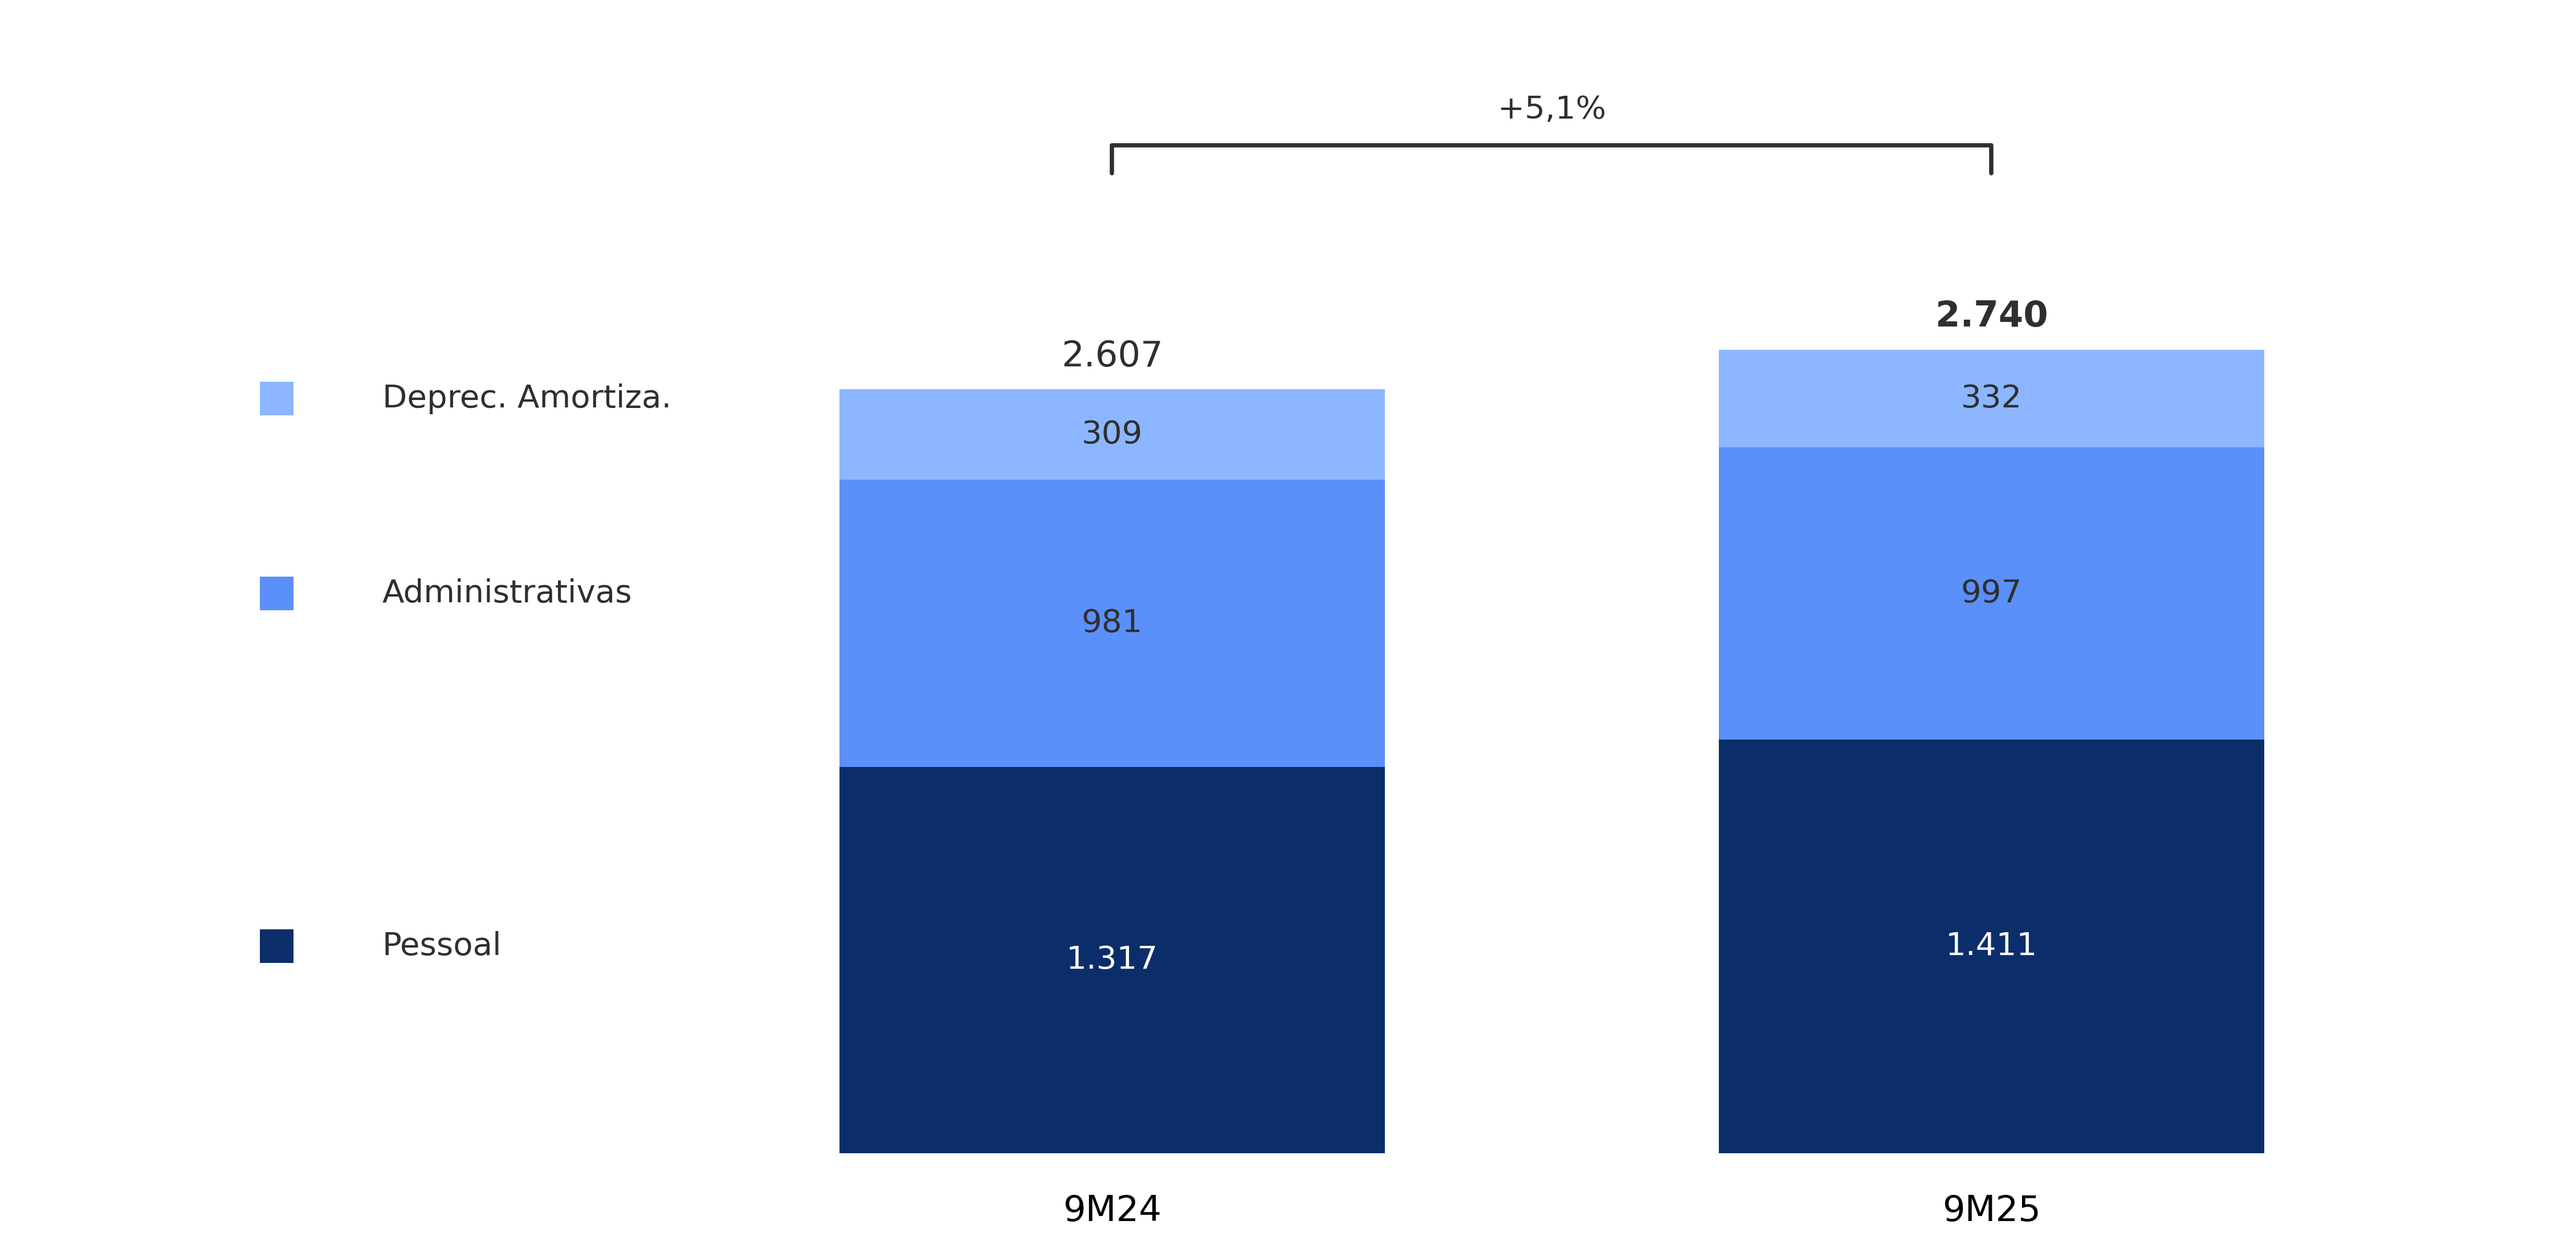
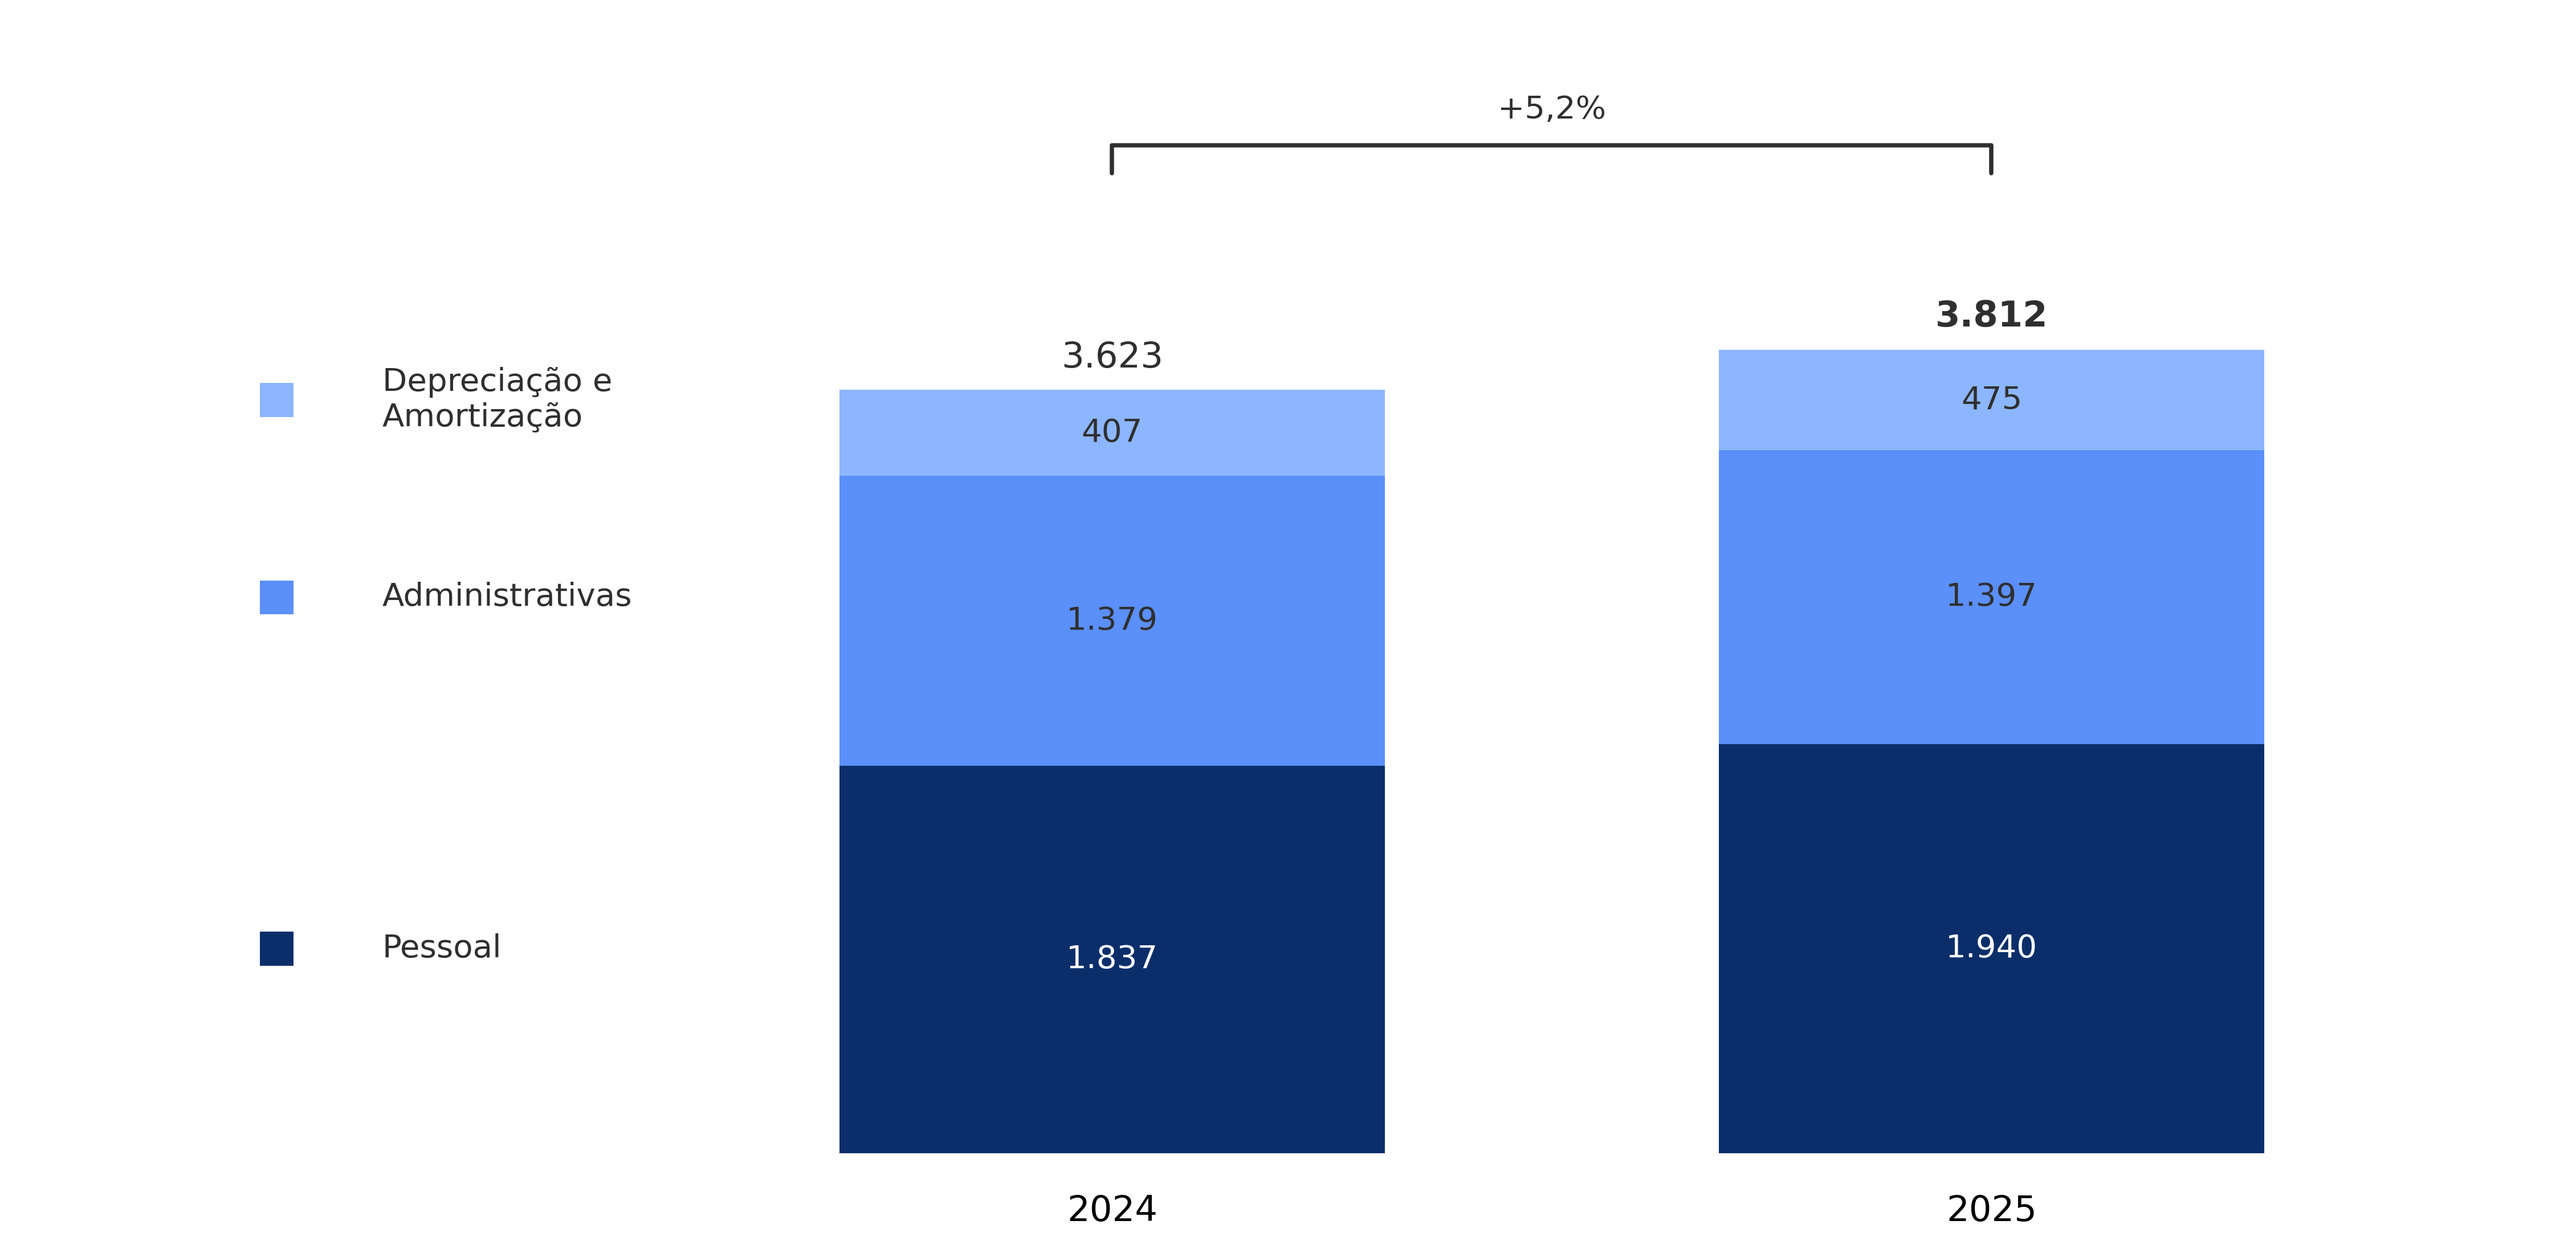
slide 11 adjusted

diff --git a/utils/slide11_charts.py b/utils/slide11_charts.py
@@ -22,6 +22,77 @@ def _fmt_int(v: float) -> str:
     return f"{float(v):,.0f}".replace(",", ".")
 
 
+def _wrap_words(text: str, *, max_line_len: int = 16) -> str:
+    s = (text or "").strip()
+    if not s:
+        return ""
+
+    words = s.split()
+    lines: list[str] = []
+    current: list[str] = []
+    current_len = 0
+
+    for word in words:
+        word_len = len(word)
+        if not current:
+            current = [word]
+            current_len = word_len
+            continue
+
+        if current_len + 1 + word_len <= max_line_len:
+            current.append(word)
+            current_len += 1 + word_len
+            continue
+
+        lines.append(" ".join(current))
+        current = [word]
+        current_len = word_len
+
+    if current:
+        lines.append(" ".join(current))
+
+    return "\n".join(lines)
+
+
+def _is_blank(value: object) -> bool:
+    return value is None or (isinstance(value, str) and value.strip() == "")
+
+
+def _read_named_series_rows(
+    ws,
+    *,
+    xlabels_range: str,
+    series_specs: list[tuple[str, str]],
+) -> tuple[list[str], list[str], np.ndarray]:
+    raw_xlabels = _read_range_row(ws, xlabels_range)
+    if all(_is_blank(value) for value in raw_xlabels):
+        raise ValueError(f"Range sem labels para gráfico em {ws.title}!{xlabels_range}")
+
+    xlabels = [("" if v is None else str(v)).strip() for v in raw_xlabels]
+    point_count = len(xlabels)
+    if point_count == 0:
+        raise ValueError(f"Sem labels para gráfico em {ws.title}!{xlabels_range}")
+
+    series_names: list[str] = []
+    series_columns: list[list[float]] = []
+    for series_name, values_range in series_specs:
+        raw_values = _read_range_row(ws, values_range)
+        if all(_is_blank(value) for value in raw_values):
+            raise ValueError(f"Range sem dados para gráfico em {ws.title}!{values_range}")
+
+        series_values = to_float_list(raw_values)
+        if len(series_values) != point_count:
+            raise ValueError(
+                f"Quantidade de labels em {xlabels_range} difere de {values_range}: "
+                f"{point_count} != {len(series_values)}"
+            )
+        series_names.append(series_name)
+        series_columns.append(series_values)
+
+    values = np.column_stack(series_columns)
+    return xlabels, series_names, values
+
+
 def _plot_stacked_expenses(
     *,
     xlabels: list[str],
@@ -154,7 +225,7 @@ def _plot_stacked_expenses(
         ax.text(
             x_leg + 0.12,
             float(y_ref),
-            str(name),
+            _wrap_words(str(name), max_line_len=16),
             ha="left",
             va="center",
             fontsize=9.0,
@@ -268,41 +339,57 @@ def generate_slide11_charts(*, xlsx_path: Path, output_dir: Path) -> list[Path]:
     output_dir.mkdir(parents=True, exist_ok=True)
 
     wb = load_workbook(filename=xlsx_path, data_only=True)
-    sheet_name = "slide_11"
-    if sheet_name not in wb.sheetnames:
-        raise ValueError(f"Aba não encontrada: {sheet_name!r}. Disponíveis: {wb.sheetnames}")
-    ws = wb[sheet_name]
+    expenses_sheet_name = "Tabelas"
+    index_sheet_name = "slide_11"
+    if expenses_sheet_name not in wb.sheetnames:
+        raise ValueError(f"Aba não encontrada: {expenses_sheet_name!r}. Disponíveis: {wb.sheetnames}")
+    if index_sheet_name not in wb.sheetnames:
+        raise ValueError(f"Aba não encontrada: {index_sheet_name!r}. Disponíveis: {wb.sheetnames}")
+    ws_expenses = wb[expenses_sheet_name]
+    ws_index = wb[index_sheet_name]
 
-    labels = [("" if v is None else str(v)).strip() for v in _read_range_row(ws, "C3:G3")]
-    series = [("" if v is None else str(v)).strip() for v in _read_range_row(ws, "B4:B6")]
+    tri_labels, series, tri_values = _read_named_series_rows(
+        ws_expenses,
+        xlabels_range="D33:F33",
+        series_specs=[
+            ("Pessoal", "D35:F35"),
+            ("Administrativas", "D39:F39"),
+            ("Depreciação e Amortização", "D45:F45"),
+        ],
+    )
 
-    row1 = to_float_list(_read_range_row(ws, "C4:G4"))
-    row2 = to_float_list(_read_range_row(ws, "C5:G5"))
-    row3 = to_float_list(_read_range_row(ws, "C6:G6"))
-    vals = np.column_stack((np.asarray(row1, dtype=float), np.asarray(row2, dtype=float), np.asarray(row3, dtype=float)))
+    nm_labels, _, nm_values = _read_named_series_rows(
+        ws_expenses,
+        xlabels_range="G33:H33",
+        series_specs=[
+            ("Pessoal", "G35:H35"),
+            ("Administrativas", "G39:H39"),
+            ("Depreciação e Amortização", "G45:H45"),
+        ],
+    )
 
     generated: list[Path] = []
 
     out22 = output_dir / "22_despesas_pessoal_adm_trimestres.png"
     _plot_stacked_expenses(
-        xlabels=labels[:3],
+        xlabels=tri_labels,
         series_names=series,
-        values=vals[:3, :],
+        values=tri_values,
         output_path=out22,
     )
     generated.append(out22)
 
     out23 = output_dir / "23_despesas_pessoal_adm_9m.png"
     _plot_stacked_expenses(
-        xlabels=labels[3:],
+        xlabels=nm_labels,
         series_names=series,
-        values=vals[3:, :],
+        values=nm_values,
         output_path=out23,
     )
     generated.append(out23)
 
-    idx_labels = [("" if v is None else str(v)).strip() for v in _read_range_row(ws, "K3:O3")]
-    idx_values = to_float_list(_read_range_row(ws, "K4:O4"))
+    idx_labels = [("" if v is None else str(v)).strip() for v in _read_range_row(ws_index, "K3:O3")]
+    idx_values = to_float_list(_read_range_row(ws_index, "K4:O4"))
     out24 = output_dir / "24_indice_eficiencia.png"
     _plot_efficiency_index(
         xlabels=idx_labels,

diff --git a/tests/test_slide11_charts.py b/tests/test_slide11_charts.py
@@ -1,0 +1,120 @@
+import tempfile
+import unittest
+from pathlib import Path
+from unittest.mock import patch
+
+from openpyxl import Workbook
+
+from utils.slide11_charts import _read_named_series_rows, _wrap_words, generate_slide11_charts
+
+
+class TestSlide11Charts(unittest.TestCase):
+    def test_wrap_words_breaks_depreciacao_label(self):
+        self.assertEqual(
+            _wrap_words("Depreciação e Amortização", max_line_len=16),
+            "Depreciação e\nAmortização",
+        )
+
+    def test_read_named_series_rows_rejects_blank_ranges(self):
+        wb = Workbook()
+        ws = wb.active
+        ws.title = "Tabelas"
+
+        with self.assertRaisesRegex(ValueError, "Range sem labels"):
+            _read_named_series_rows(
+                ws,
+                xlabels_range="D33:F33",
+                series_specs=[
+                    ("Pessoal", "D35:F35"),
+                    ("Administrativas", "D39:F39"),
+                ],
+            )
+
+    def test_generate_slide11_charts_uses_updated_expense_sources(self):
+        wb = Workbook()
+        ws_expenses = wb.active
+        ws_expenses.title = "Tabelas"
+        ws_index = wb.create_sheet("slide_11")
+
+        for col_offset, label in enumerate(["1T25", "2T25", "3T25"], start=4):
+            ws_expenses.cell(row=33, column=col_offset).value = label
+        for col_offset, value in enumerate([100, 110, 120], start=4):
+            ws_expenses.cell(row=35, column=col_offset).value = value
+        for col_offset, value in enumerate([40, 42, 44], start=4):
+            ws_expenses.cell(row=39, column=col_offset).value = value
+        for col_offset, value in enumerate([10, 11, 12], start=4):
+            ws_expenses.cell(row=45, column=col_offset).value = value
+
+        for col_offset, label in enumerate(["9M24", "9M25"], start=7):
+            ws_expenses.cell(row=33, column=col_offset).value = label
+        for col_offset, value in enumerate([330, 360], start=7):
+            ws_expenses.cell(row=35, column=col_offset).value = value
+        for col_offset, value in enumerate([126, 132], start=7):
+            ws_expenses.cell(row=39, column=col_offset).value = value
+        for col_offset, value in enumerate([31, 33], start=7):
+            ws_expenses.cell(row=45, column=col_offset).value = value
+
+        for col_offset, label in enumerate(["1T25", "2T25", "3T25", "9M24", "9M25"], start=11):
+            ws_index.cell(row=3, column=col_offset).value = label
+        for col_offset, value in enumerate([0.37, 0.38, 0.39, 0.40, 0.41], start=11):
+            ws_index.cell(row=4, column=col_offset).value = value
+
+        captured: dict[str, dict[str, object]] = {}
+
+        def _capture_stacked(*, xlabels, series_names, values, output_path):
+            captured[Path(output_path).name] = {
+                "xlabels": list(xlabels),
+                "series_names": list(series_names),
+                "values": values.tolist(),
+            }
+
+        def _capture_index(*, xlabels, values, output_path):
+            captured[Path(output_path).name] = {
+                "xlabels": list(xlabels),
+                "values": list(values),
+            }
+
+        with tempfile.TemporaryDirectory() as td:
+            xlsx_path = Path(td) / "test.xlsx"
+            output_dir = Path(td) / "out"
+            wb.save(xlsx_path)
+
+            with patch("utils.slide11_charts._plot_stacked_expenses", side_effect=_capture_stacked):
+                with patch("utils.slide11_charts._plot_efficiency_index", side_effect=_capture_index):
+                    files = generate_slide11_charts(xlsx_path=xlsx_path, output_dir=output_dir)
+
+        self.assertEqual(len(files), 3)
+        self.assertEqual(
+            captured["22_despesas_pessoal_adm_trimestres.png"]["xlabels"],
+            ["1T25", "2T25", "3T25"],
+        )
+        self.assertEqual(
+            captured["22_despesas_pessoal_adm_trimestres.png"]["series_names"],
+            ["Pessoal", "Administrativas", "Depreciação e Amortização"],
+        )
+        self.assertEqual(
+            captured["22_despesas_pessoal_adm_trimestres.png"]["values"],
+            [[100.0, 40.0, 10.0], [110.0, 42.0, 11.0], [120.0, 44.0, 12.0]],
+        )
+
+        self.assertEqual(
+            captured["23_despesas_pessoal_adm_9m.png"]["xlabels"],
+            ["9M24", "9M25"],
+        )
+        self.assertEqual(
+            captured["23_despesas_pessoal_adm_9m.png"]["values"],
+            [[330.0, 126.0, 31.0], [360.0, 132.0, 33.0]],
+        )
+
+        self.assertEqual(
+            captured["24_indice_eficiencia.png"]["xlabels"],
+            ["1T25", "2T25", "3T25", "9M24", "9M25"],
+        )
+        self.assertEqual(
+            captured["24_indice_eficiencia.png"]["values"],
+            [0.37, 0.38, 0.39, 0.40, 0.41],
+        )
+
+
+if __name__ == "__main__":
+    unittest.main()
